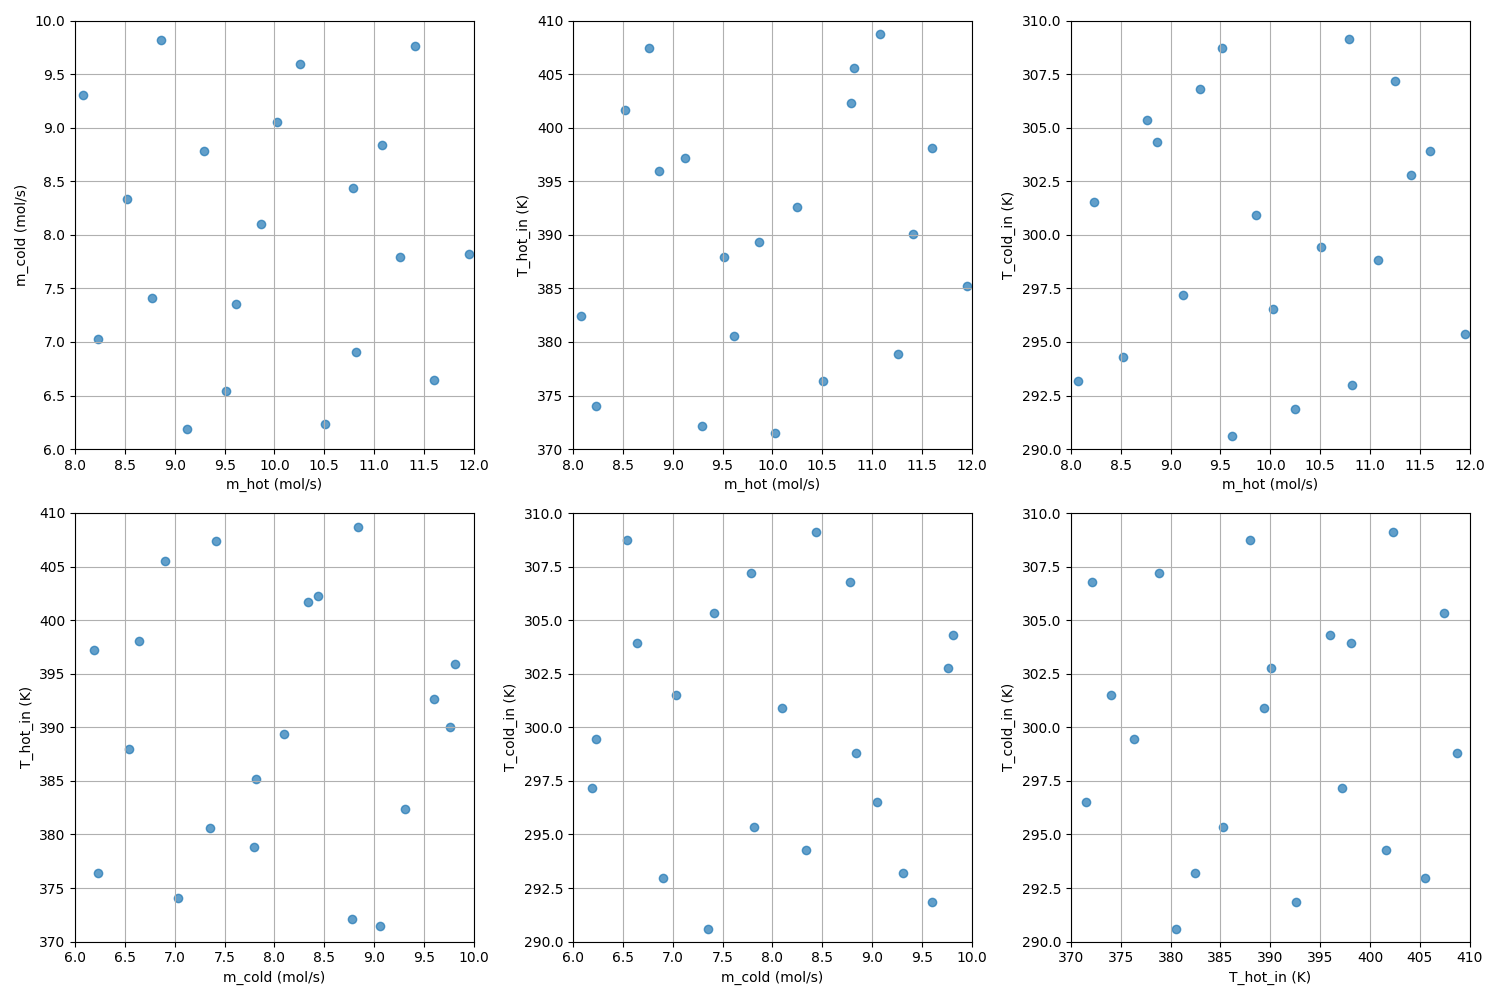
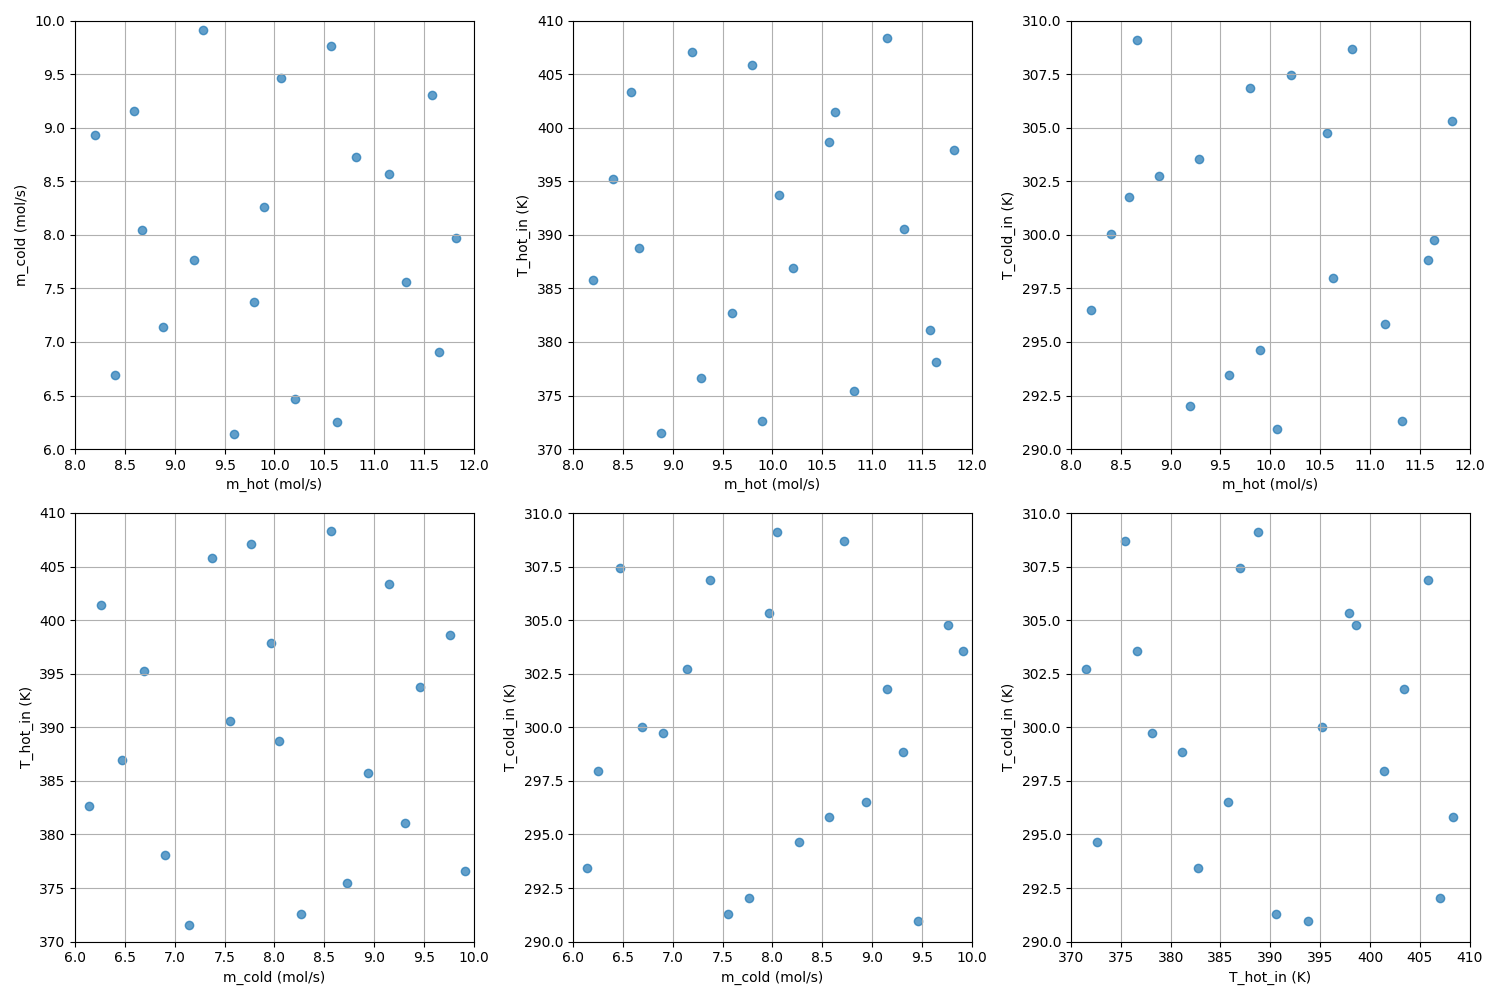
remove random_state from LHS sampler initialisation for original result after runs

diff --git a/src/generate_heat_exchanger_data.py b/src/generate_heat_exchanger_data.py
@@ -70,7 +70,7 @@ def generate_heat_exchanger_data(num_samples=20, visualise=True, criterion='ese'
     ])
     
     # Create LHS sampler with enhanced space-filling properties (ESE criterion)
-    sampling = LHS(xlimits=xlimits, criterion=criterion, random_state=42)
+    sampling = LHS(xlimits=xlimits, criterion=criterion)
     
     # Generate samples using Latin Hypercube method
     lhs_samples = sampling(num_samples)
